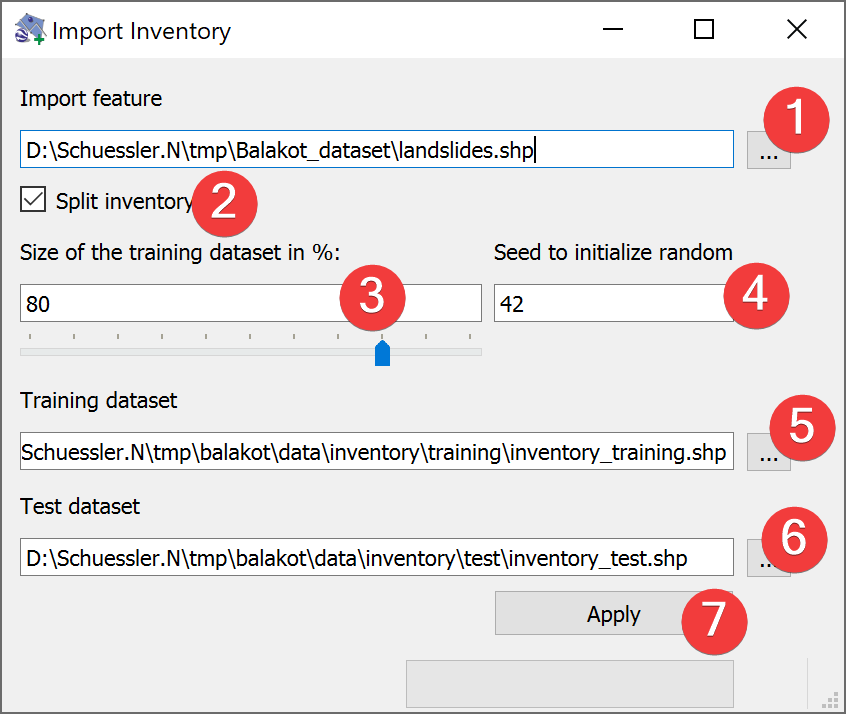
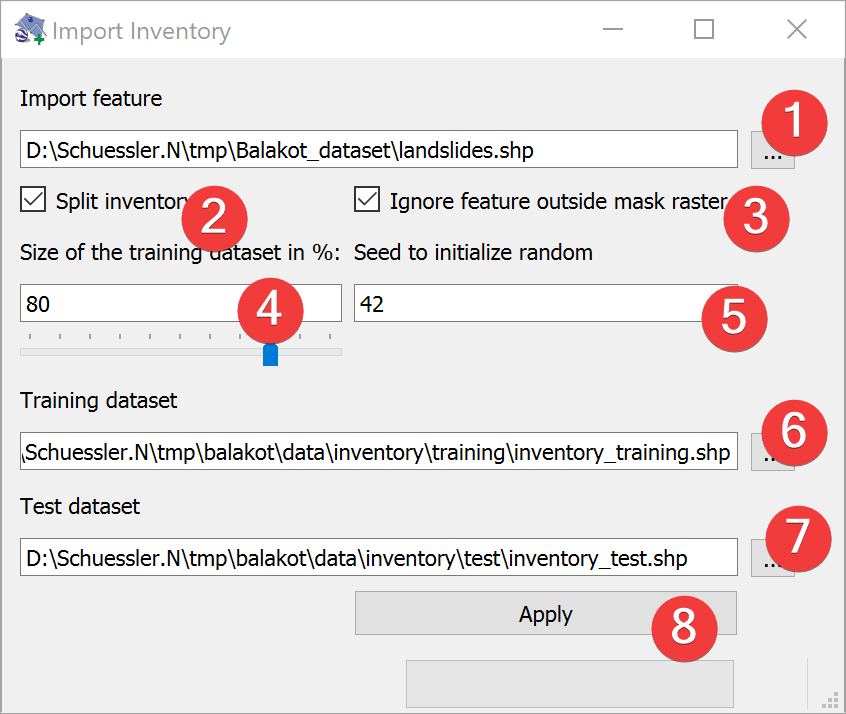
ImportInventory - Import can now clip to mask with new Screenshot

diff --git a/source/DATA/Import/ImportInventory.rst b/source/DATA/Import/ImportInventory.rst
@@ -17,22 +17,26 @@ Usage
 #. | Pick a vector dataset to import. You can either type the absolute path to the file or select 
    | it from your PC (1).
 #. (Optional) Disable splitting the inventory into training and validation datasets.
+#. (Optional) Disable ignoring feature parts outside the mask raster.
 #. | Adjust the size of the training dataset as percent of the import feature either by typing a 
-   | number (3) or adjusting the slider.
-#. (Optional) Define a seed to initialize the random function (4).
+   | number (4) or adjusting the slider.
+#. (Optional) Define a seed to initialize the random function (5).
 #. | (Optional) Adjust the training dataset output location either by typing the output path or 
-   | with a dialog (5)
+   | with a dialog (6)
 #. | (Optional) Adjust the test dataset output location either by typing the output path or with a 
-   | dialog (6)
-#. Start the Import (7)
+   | dialog (7)
+#. Start the Import (8)
 
-By defining a seed to initialize random (4) you can recreate the inventory split on a later date.
+LSAT :doc:`clips</DATA/VectorTools/GeoprocessingTools>` the feature with region.shp of the current
+project on the fly if you choose to ignore features outside the mask.
+
+By defining a seed to initialize random (5) you can recreate the inventory split on a later date.
 
 To achieve the best results in later :doc:`analyses</ANALYSIS/ANALYSIS>` consider splitting the 
 inventory.
 
 Most LSAT widgets expect the inventory to be in their default locations. While you can always 
-point to another folder or file consider it is easier to leave the default output locations.
+point to another folder or file it is easier to leave the default output locations.
 
 .. topic:: Why subsample?
 
